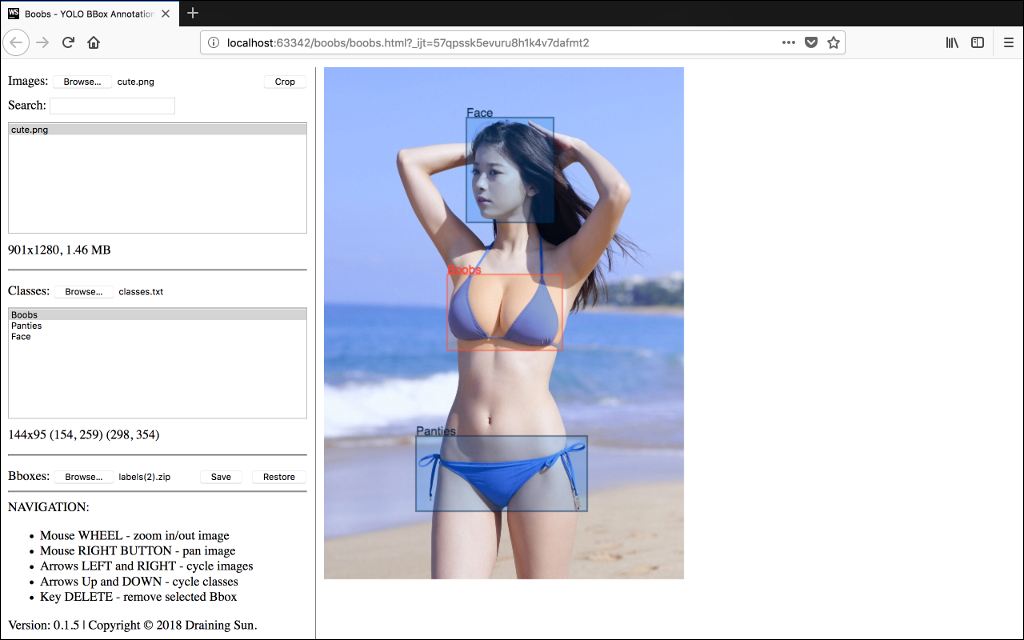
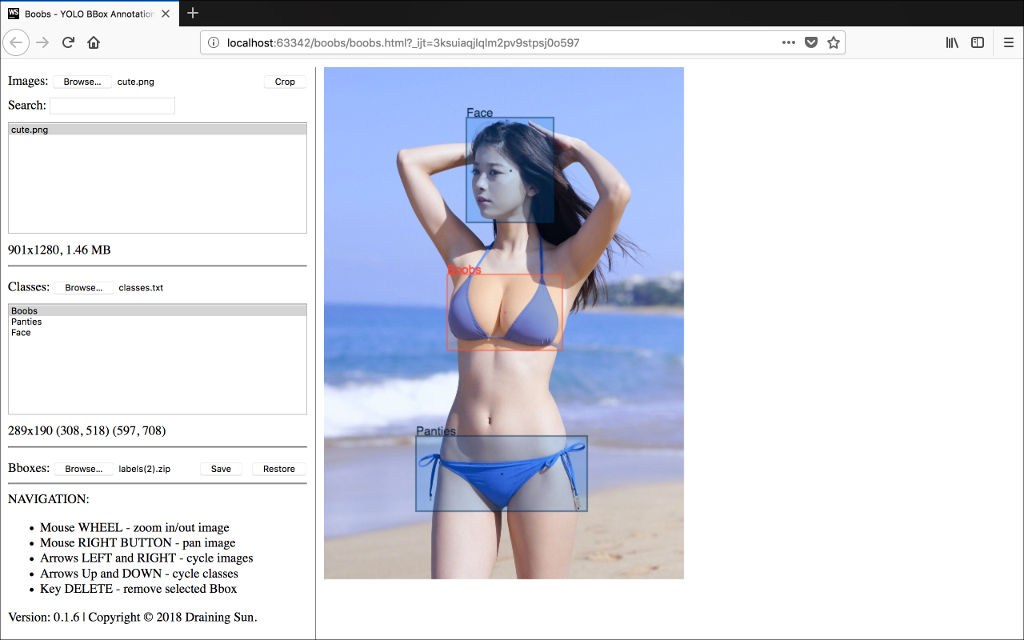
v0.1.6

Changed region(s): [[0.0, 0.625, 0.3125, 1.0], [0.0, 0.4062, 0.3125, 0.5312], [0.4375, 0.0625, 0.5625, 0.0938]]

diff --git a/boobs.js b/boobs.js
@@ -122,7 +122,9 @@
             context.strokeRect(zoomX(mouse.startRealX), zoomY(mouse.startRealY), zoom(width), zoom(height))
             context.fillRect(zoomX(mouse.startRealX), zoomY(mouse.startRealY), zoom(width), zoom(height))
 
-            setBboxCoordinates(zoomX(mouse.startRealX), zoomY(mouse.startRealY), zoom(width), zoom(height))
+            context.strokeRect(zoomX(mouse.startRealX + width / 2), zoomY(mouse.startRealY + height / 2), 1, 1)
+
+            setBboxCoordinates(mouse.startRealX, mouse.startRealY, width, height)
         }
     }
 
@@ -138,8 +140,10 @@
                 context.strokeRect(zoomX(bbox.x), zoomY(bbox.y), zoom(bbox.width), zoom(bbox.height))
                 context.fillRect(zoomX(bbox.x), zoomY(bbox.y), zoom(bbox.width), zoom(bbox.height))
 
+                context.strokeRect(zoomX(bbox.x + bbox.width / 2), zoomY(bbox.y + bbox.height / 2), 1, 1)
+
                 if (bbox.marked === true) {
-                    setBboxCoordinates(zoomX(bbox.x), zoomY(bbox.y), zoom(bbox.width), zoom(bbox.height))
+                    setBboxCoordinates(bbox.x, bbox.y, bbox.width, bbox.height)
                 }
             })
         }

diff --git a/boobs.html b/boobs.html
@@ -64,7 +64,7 @@
                         </li>
                     </ul>
 
-                    <p>Version: 0.1.5 |  Copyright © 2018 Draining Sun.</p>
+                    <p>Version: 0.1.6 |  Copyright © 2018 Draining Sun.</p>
                 </div>
             </form>
         </div>

diff --git a/CHANGELOG.md b/CHANGELOG.md
@@ -1,3 +1,7 @@
+# 2018-03-04, v0.1.6
+* Fixed bbox dimension display being affected by zoom.
+* Added a middle dot in bboxes for easier center approximation.
+
 # 2018-03-01, v0.1.5
 * Fixed canvas not resetting on image mouse select.
 * Fixed classes and bboxes not reloading on selecting the same files.
